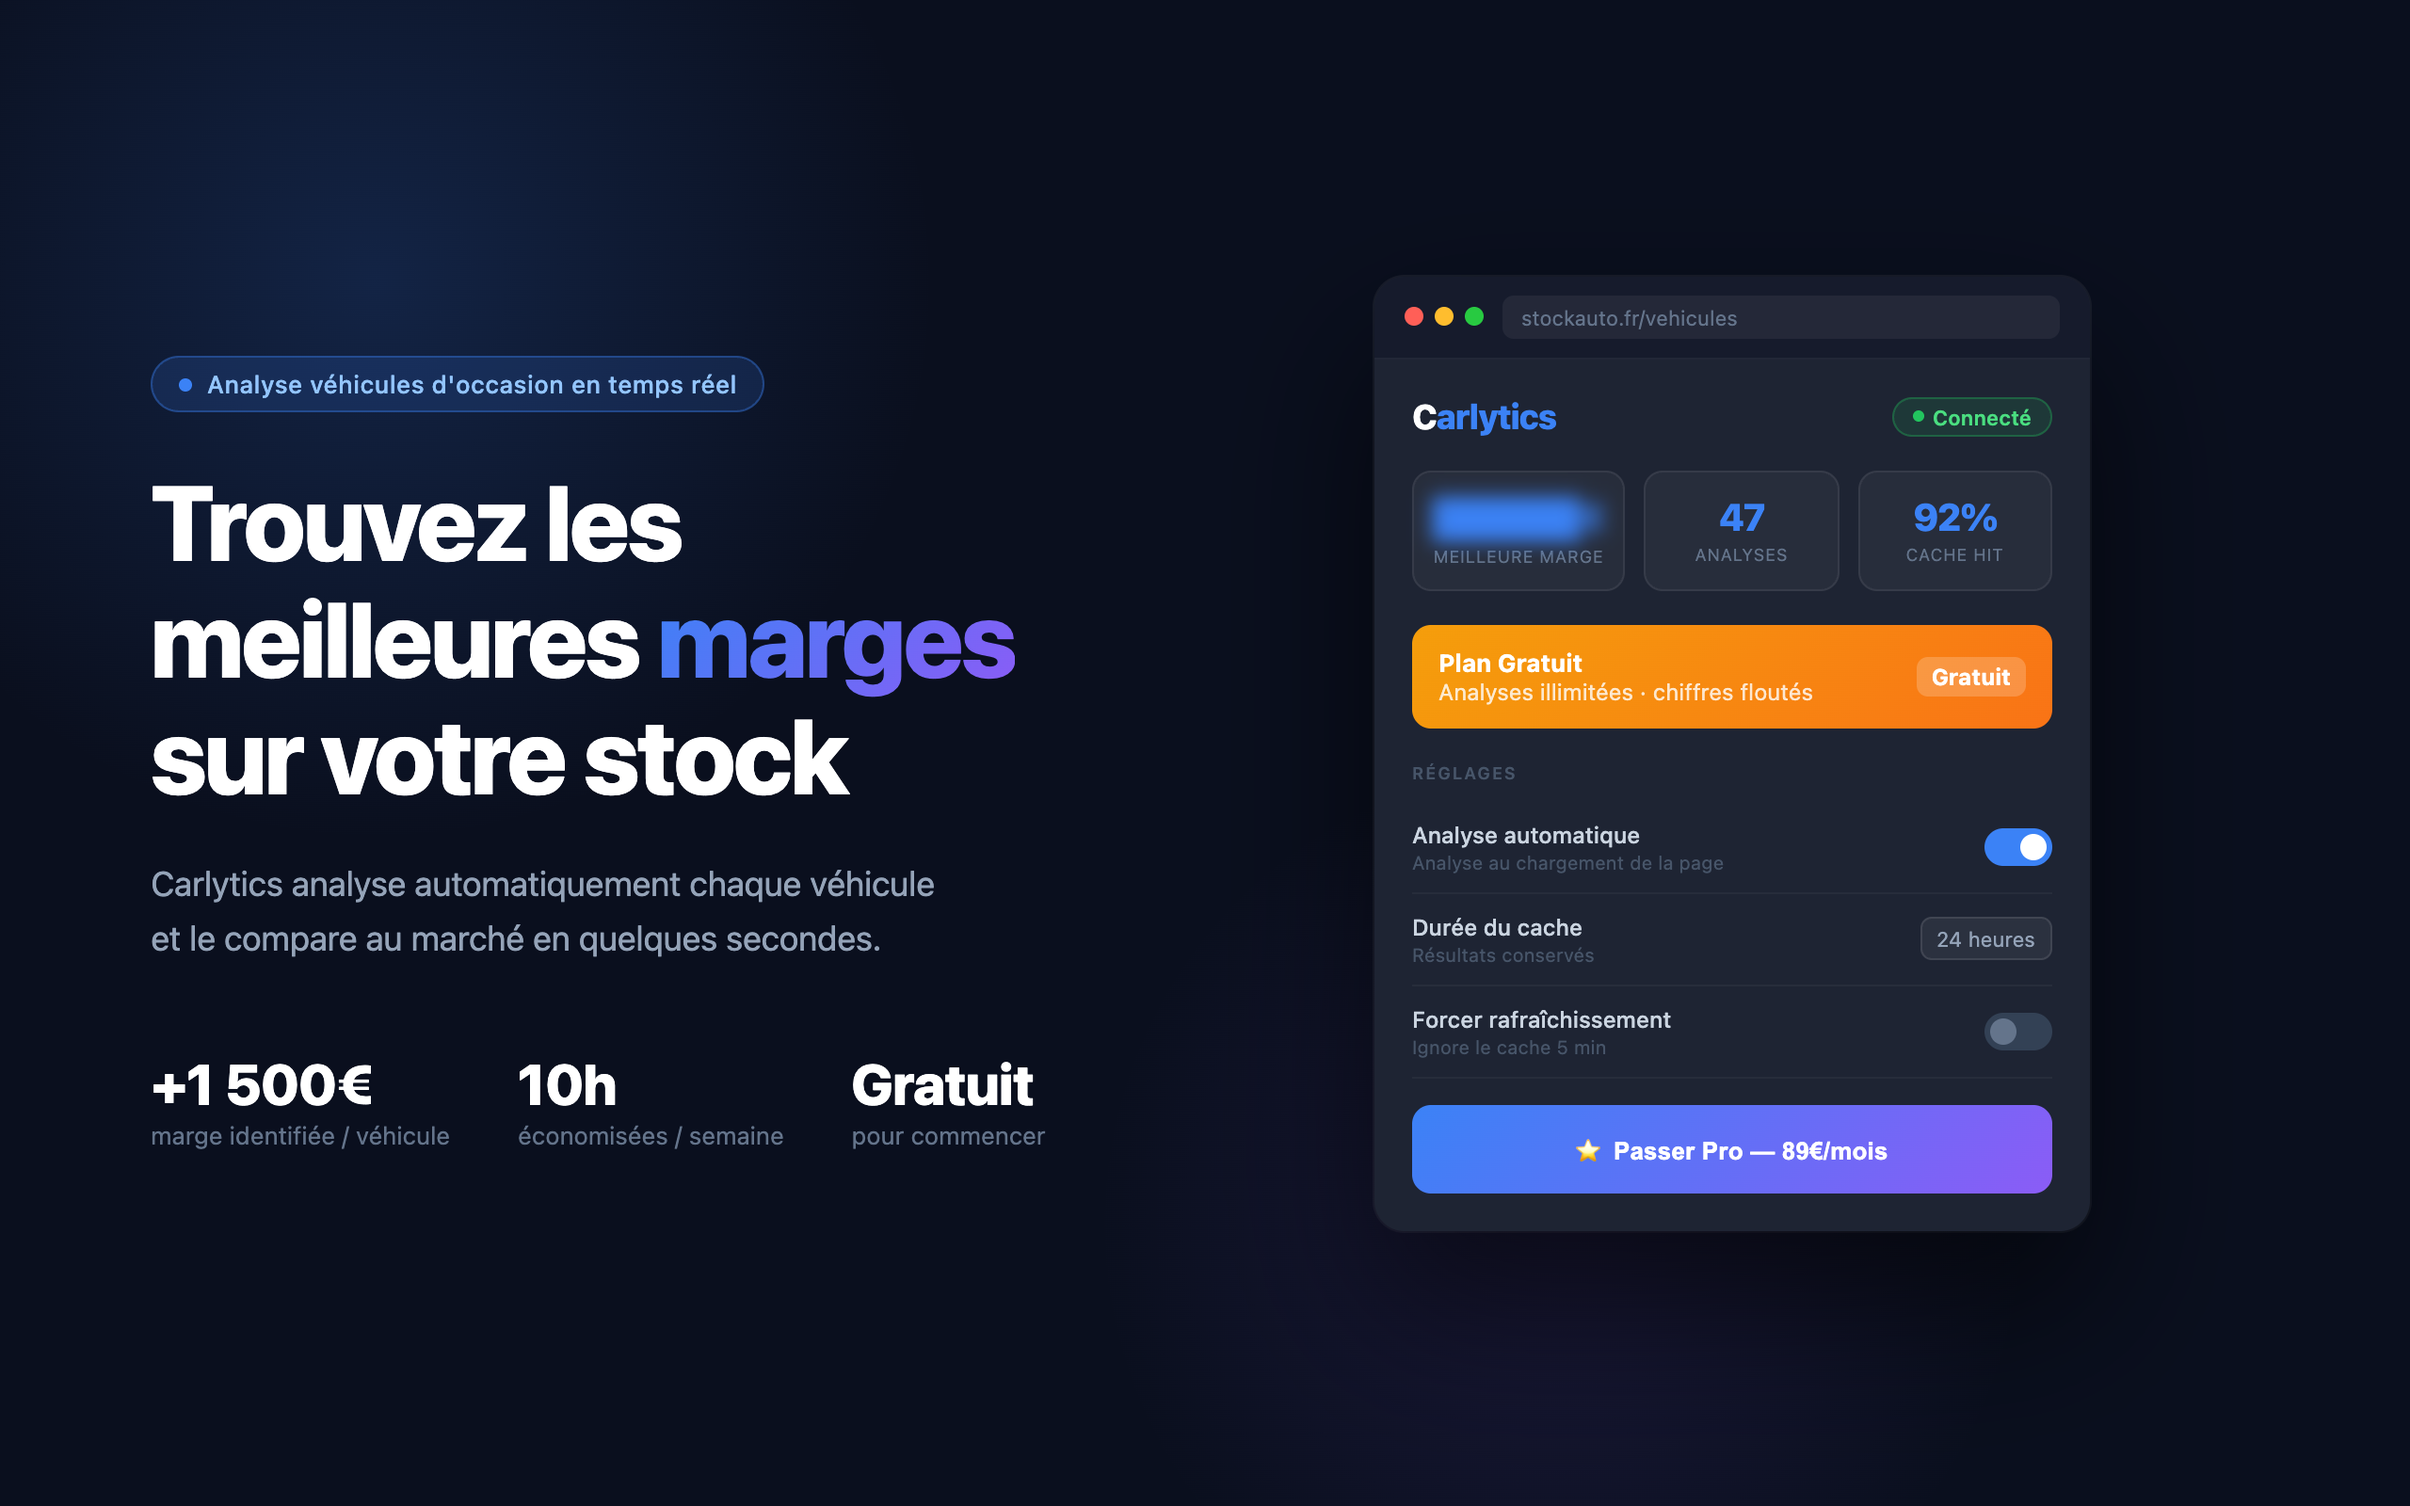
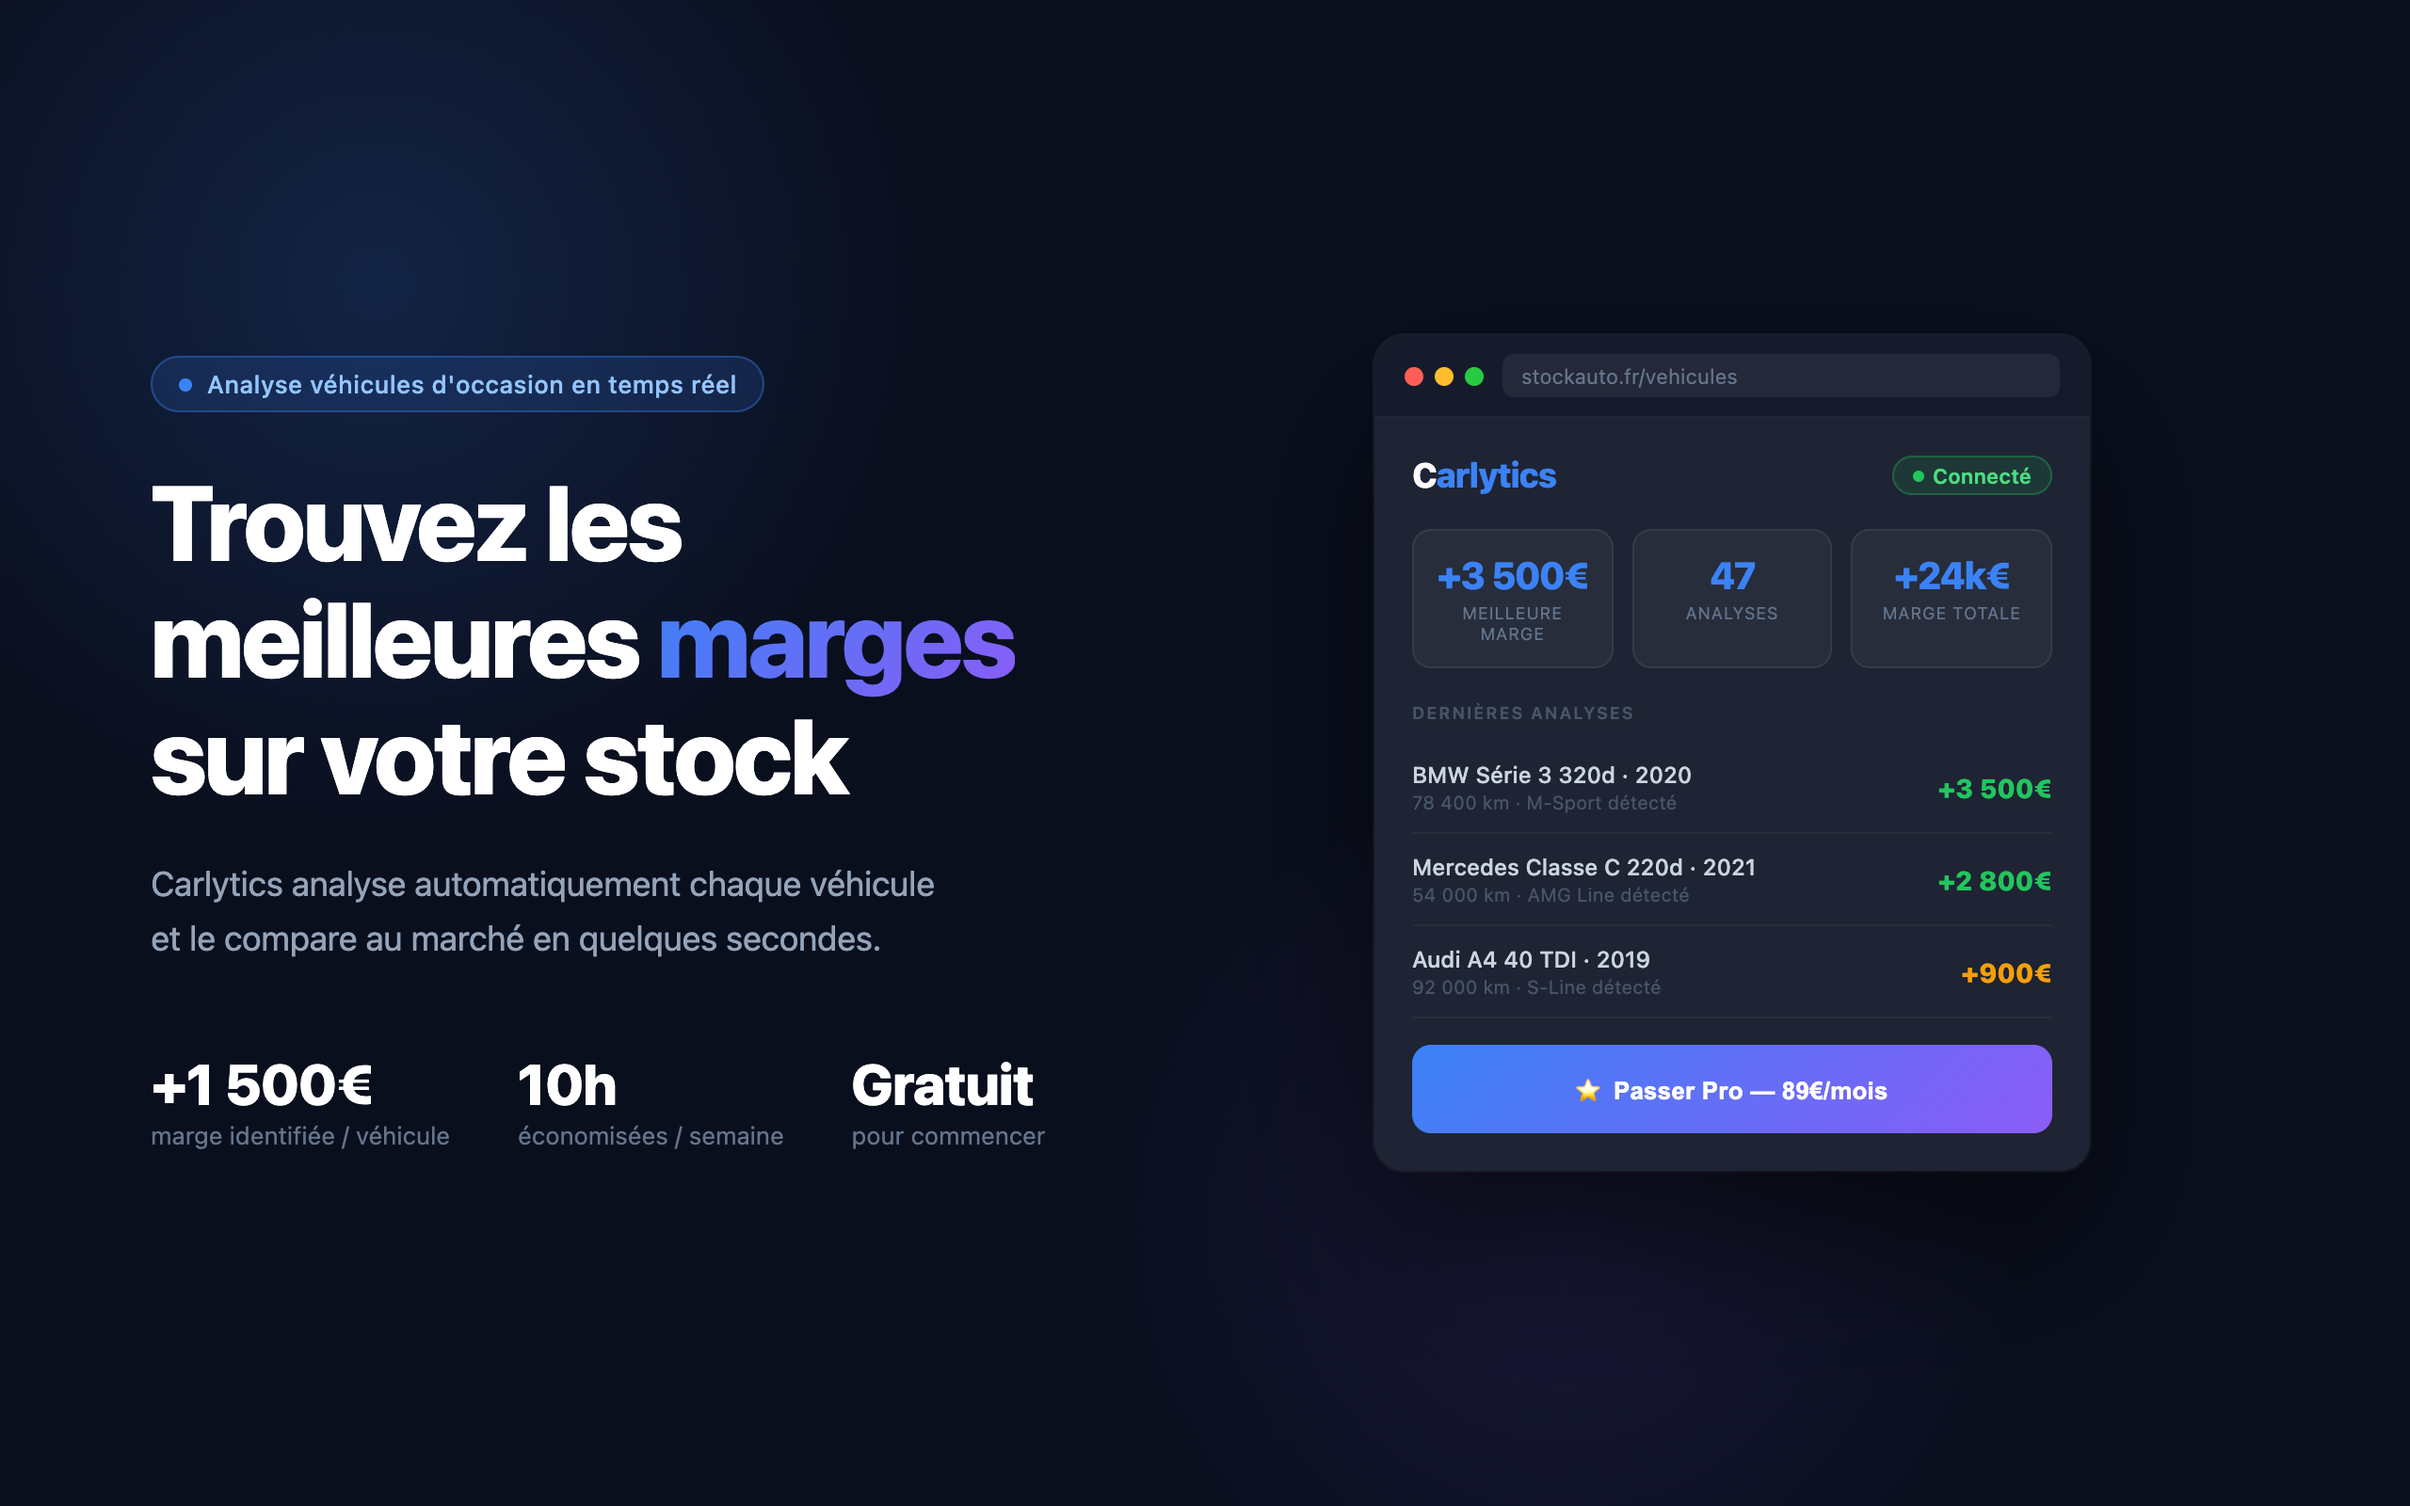
fix: screenshots marketing — vrais chiffres, analyses récentes, plus de settings techniques

Changed region(s): [[0.5625, 0.1875, 0.875, 0.8438], [0.7188, 0.3438, 0.75, 0.375]]

diff --git a/screenshots/store-1.html b/screenshots/store-1.html
@@ -334,7 +334,7 @@
 
           <div class="stats-row">
             <div class="stat-box">
-              <div class="stat-box-val" style="filter:blur(5px);color:#3b82f6;">████€</div>
+              <div class="stat-box-val">+3 500€</div>
               <div class="stat-box-lbl">Meilleure marge</div>
             </div>
             <div class="stat-box">
@@ -342,41 +342,33 @@
               <div class="stat-box-lbl">Analyses</div>
             </div>
             <div class="stat-box">
-              <div class="stat-box-val">92%</div>
-              <div class="stat-box-lbl">Cache hit</div>
+              <div class="stat-box-val">+24k€</div>
+              <div class="stat-box-lbl">Marge totale</div>
             </div>
           </div>
 
-          <div class="plan-bar">
-            <div>
-              <div class="plan-name">Plan Gratuit</div>
-              <div class="plan-count">Analyses illimitées · chiffres floutés</div>
-            </div>
-            <div class="plan-badge">Gratuit</div>
-          </div>
-
-          <div class="section-label">Réglages</div>
+          <div class="section-label">Dernières analyses</div>
 
           <div class="setting-row">
             <div>
-              <div class="setting-name">Analyse automatique</div>
-              <div class="setting-sub">Analyse au chargement de la page</div>
+              <div class="setting-name">BMW Série 3 320d · 2020</div>
+              <div class="setting-sub">78 400 km · M-Sport détecté</div>
             </div>
-            <div class="toggle-on"></div>
+            <div style="font-size:14px;font-weight:800;color:#22c55e;">+3 500€</div>
           </div>
           <div class="setting-row">
             <div>
-              <div class="setting-name">Durée du cache</div>
-              <div class="setting-sub">Résultats conservés</div>
+              <div class="setting-name">Mercedes Classe C 220d · 2021</div>
+              <div class="setting-sub">54 000 km · AMG Line détecté</div>
             </div>
-            <div class="select-pill">24 heures</div>
+            <div style="font-size:14px;font-weight:800;color:#22c55e;">+2 800€</div>
           </div>
           <div class="setting-row">
             <div>
-              <div class="setting-name">Forcer rafraîchissement</div>
-              <div class="setting-sub">Ignore le cache 5 min</div>
+              <div class="setting-name">Audi A4 40 TDI · 2019</div>
+              <div class="setting-sub">92 000 km · S-Line détecté</div>
             </div>
-            <div class="toggle-off"></div>
+            <div style="font-size:14px;font-weight:800;color:#f59e0b;">+900€</div>
           </div>
 
           <button class="upgrade-btn">⭐ Passer Pro — 89€/mois</button>

diff --git a/screenshots/store-2.html b/screenshots/store-2.html
@@ -367,7 +367,7 @@
               </div>
               <div class="price-box">
                 <div class="price-label">Marge estimée</div>
-                <div class="price-val margin" style="filter:blur(5px);">+1 700€</div>
+                <div class="price-val margin">+1 700€</div>
                 <div class="price-sub">Standard</div>
               </div>
             </div>
